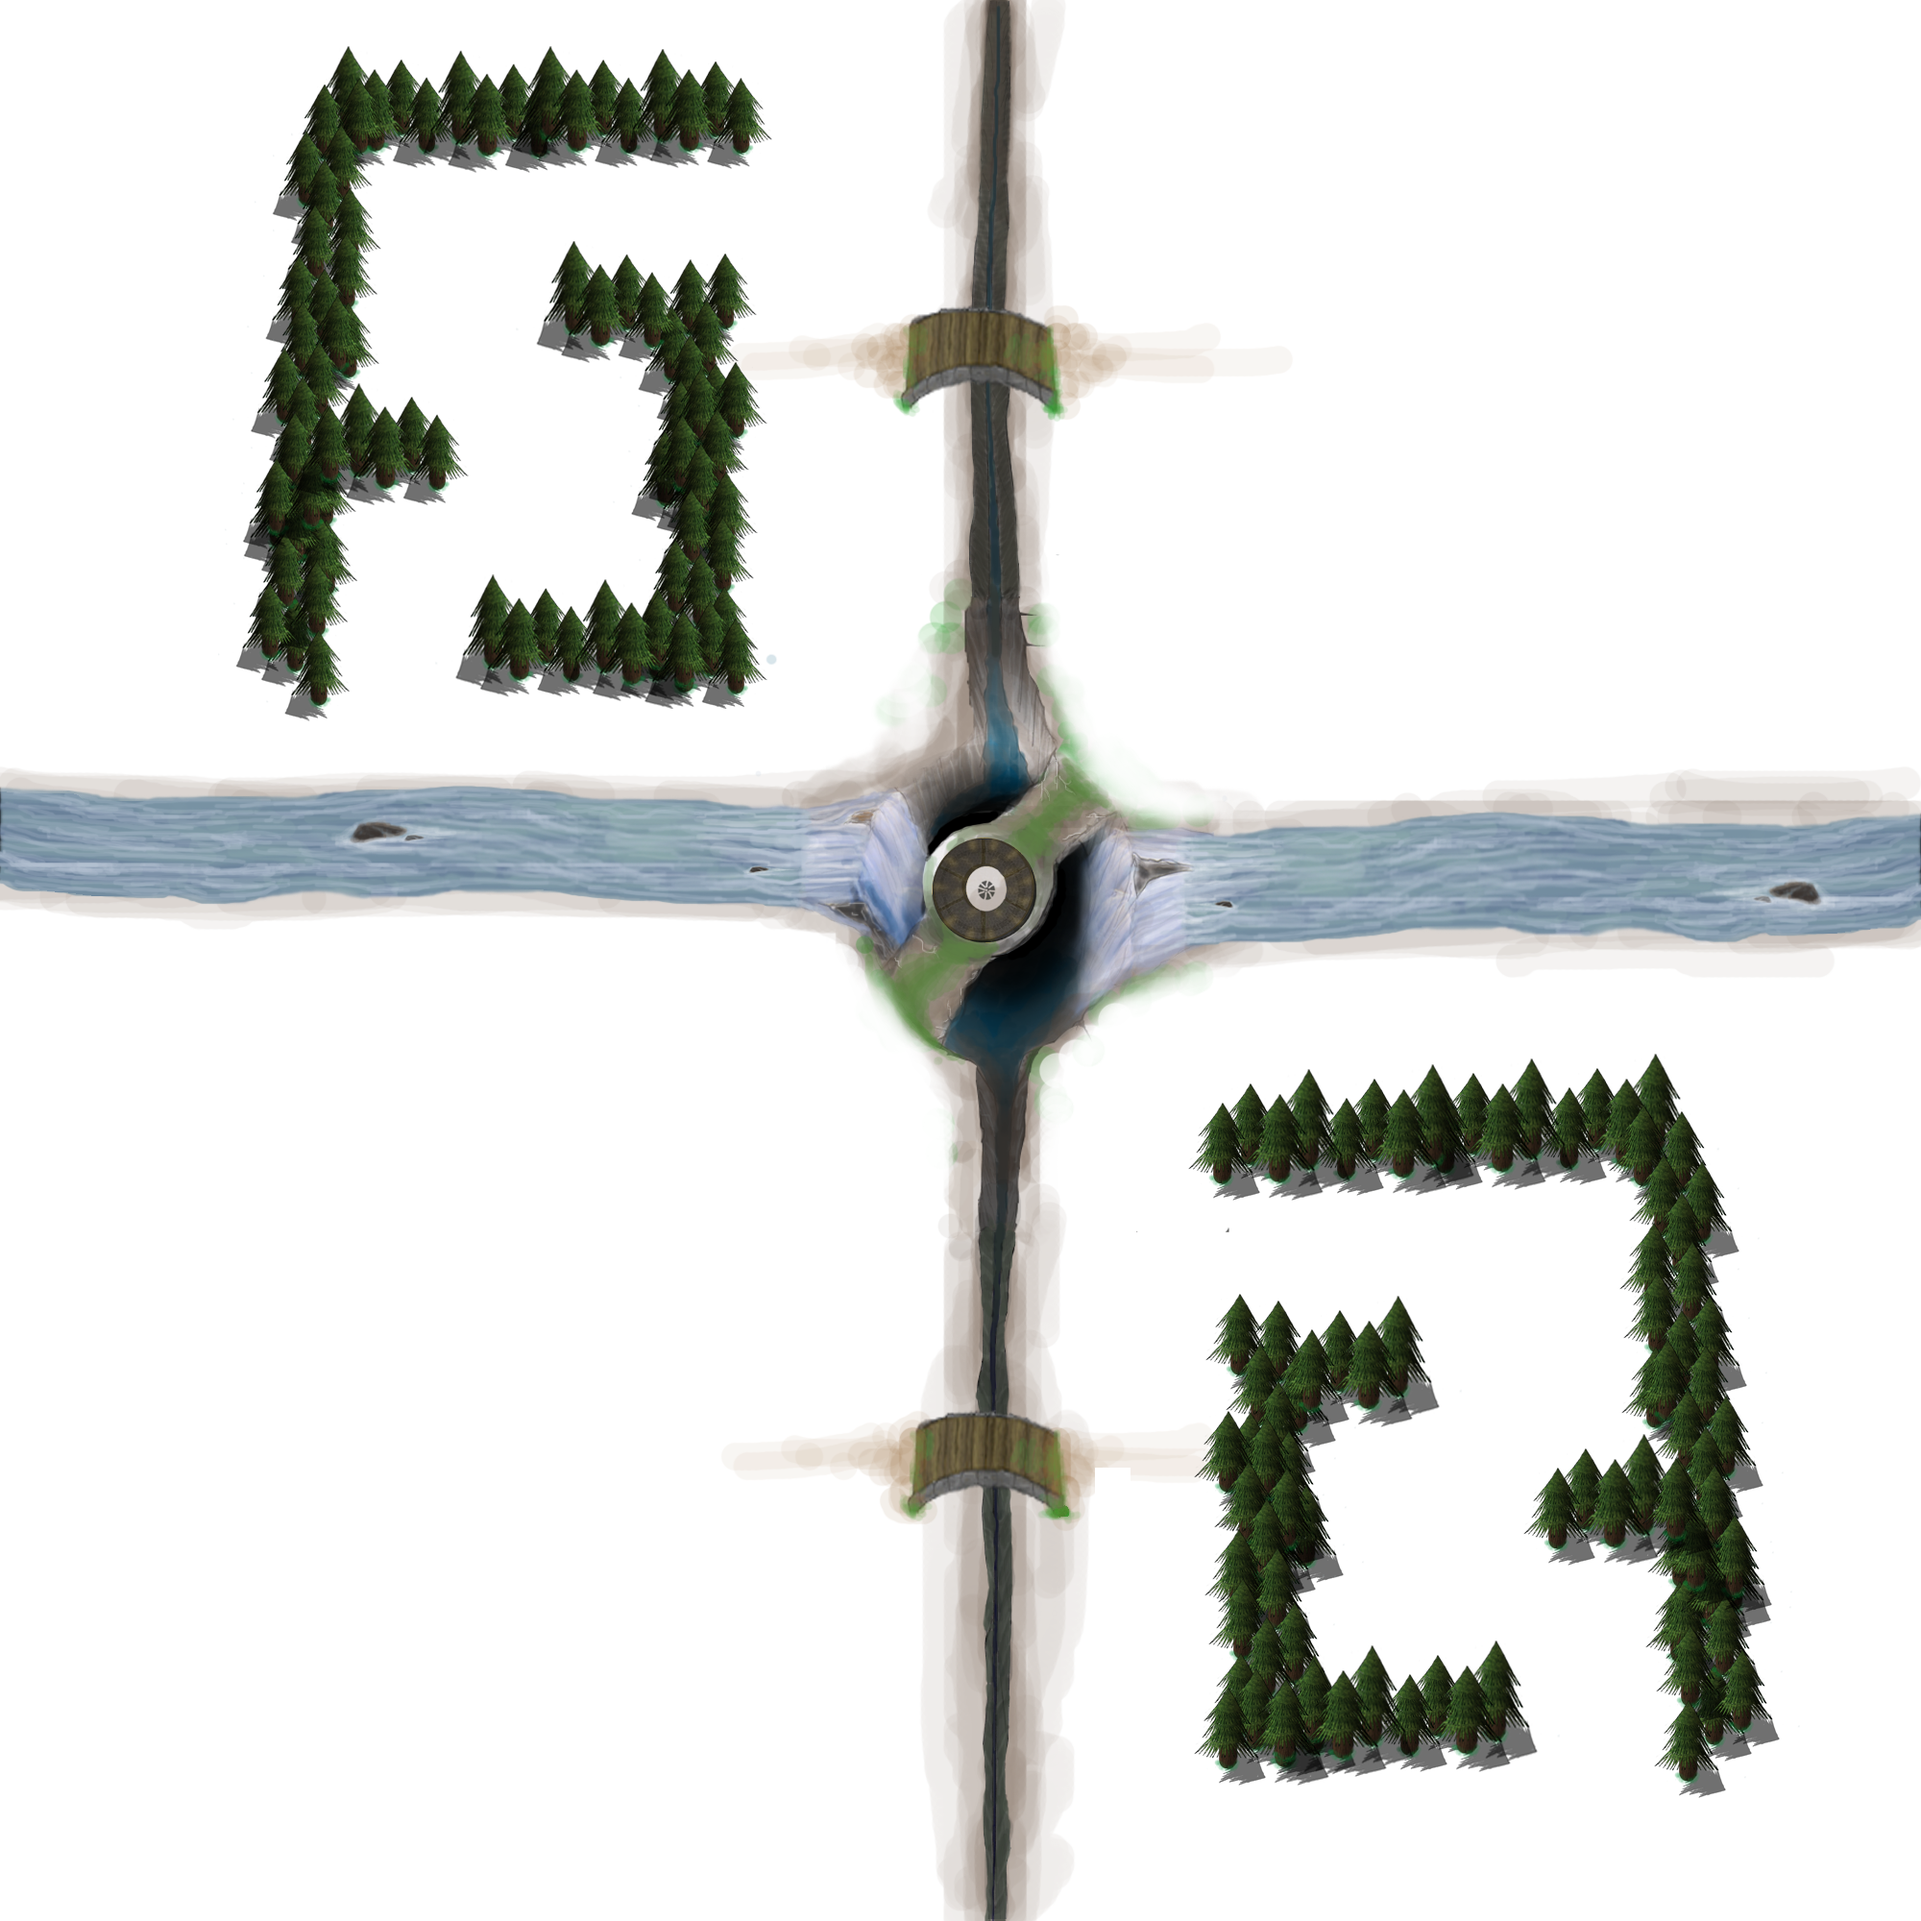
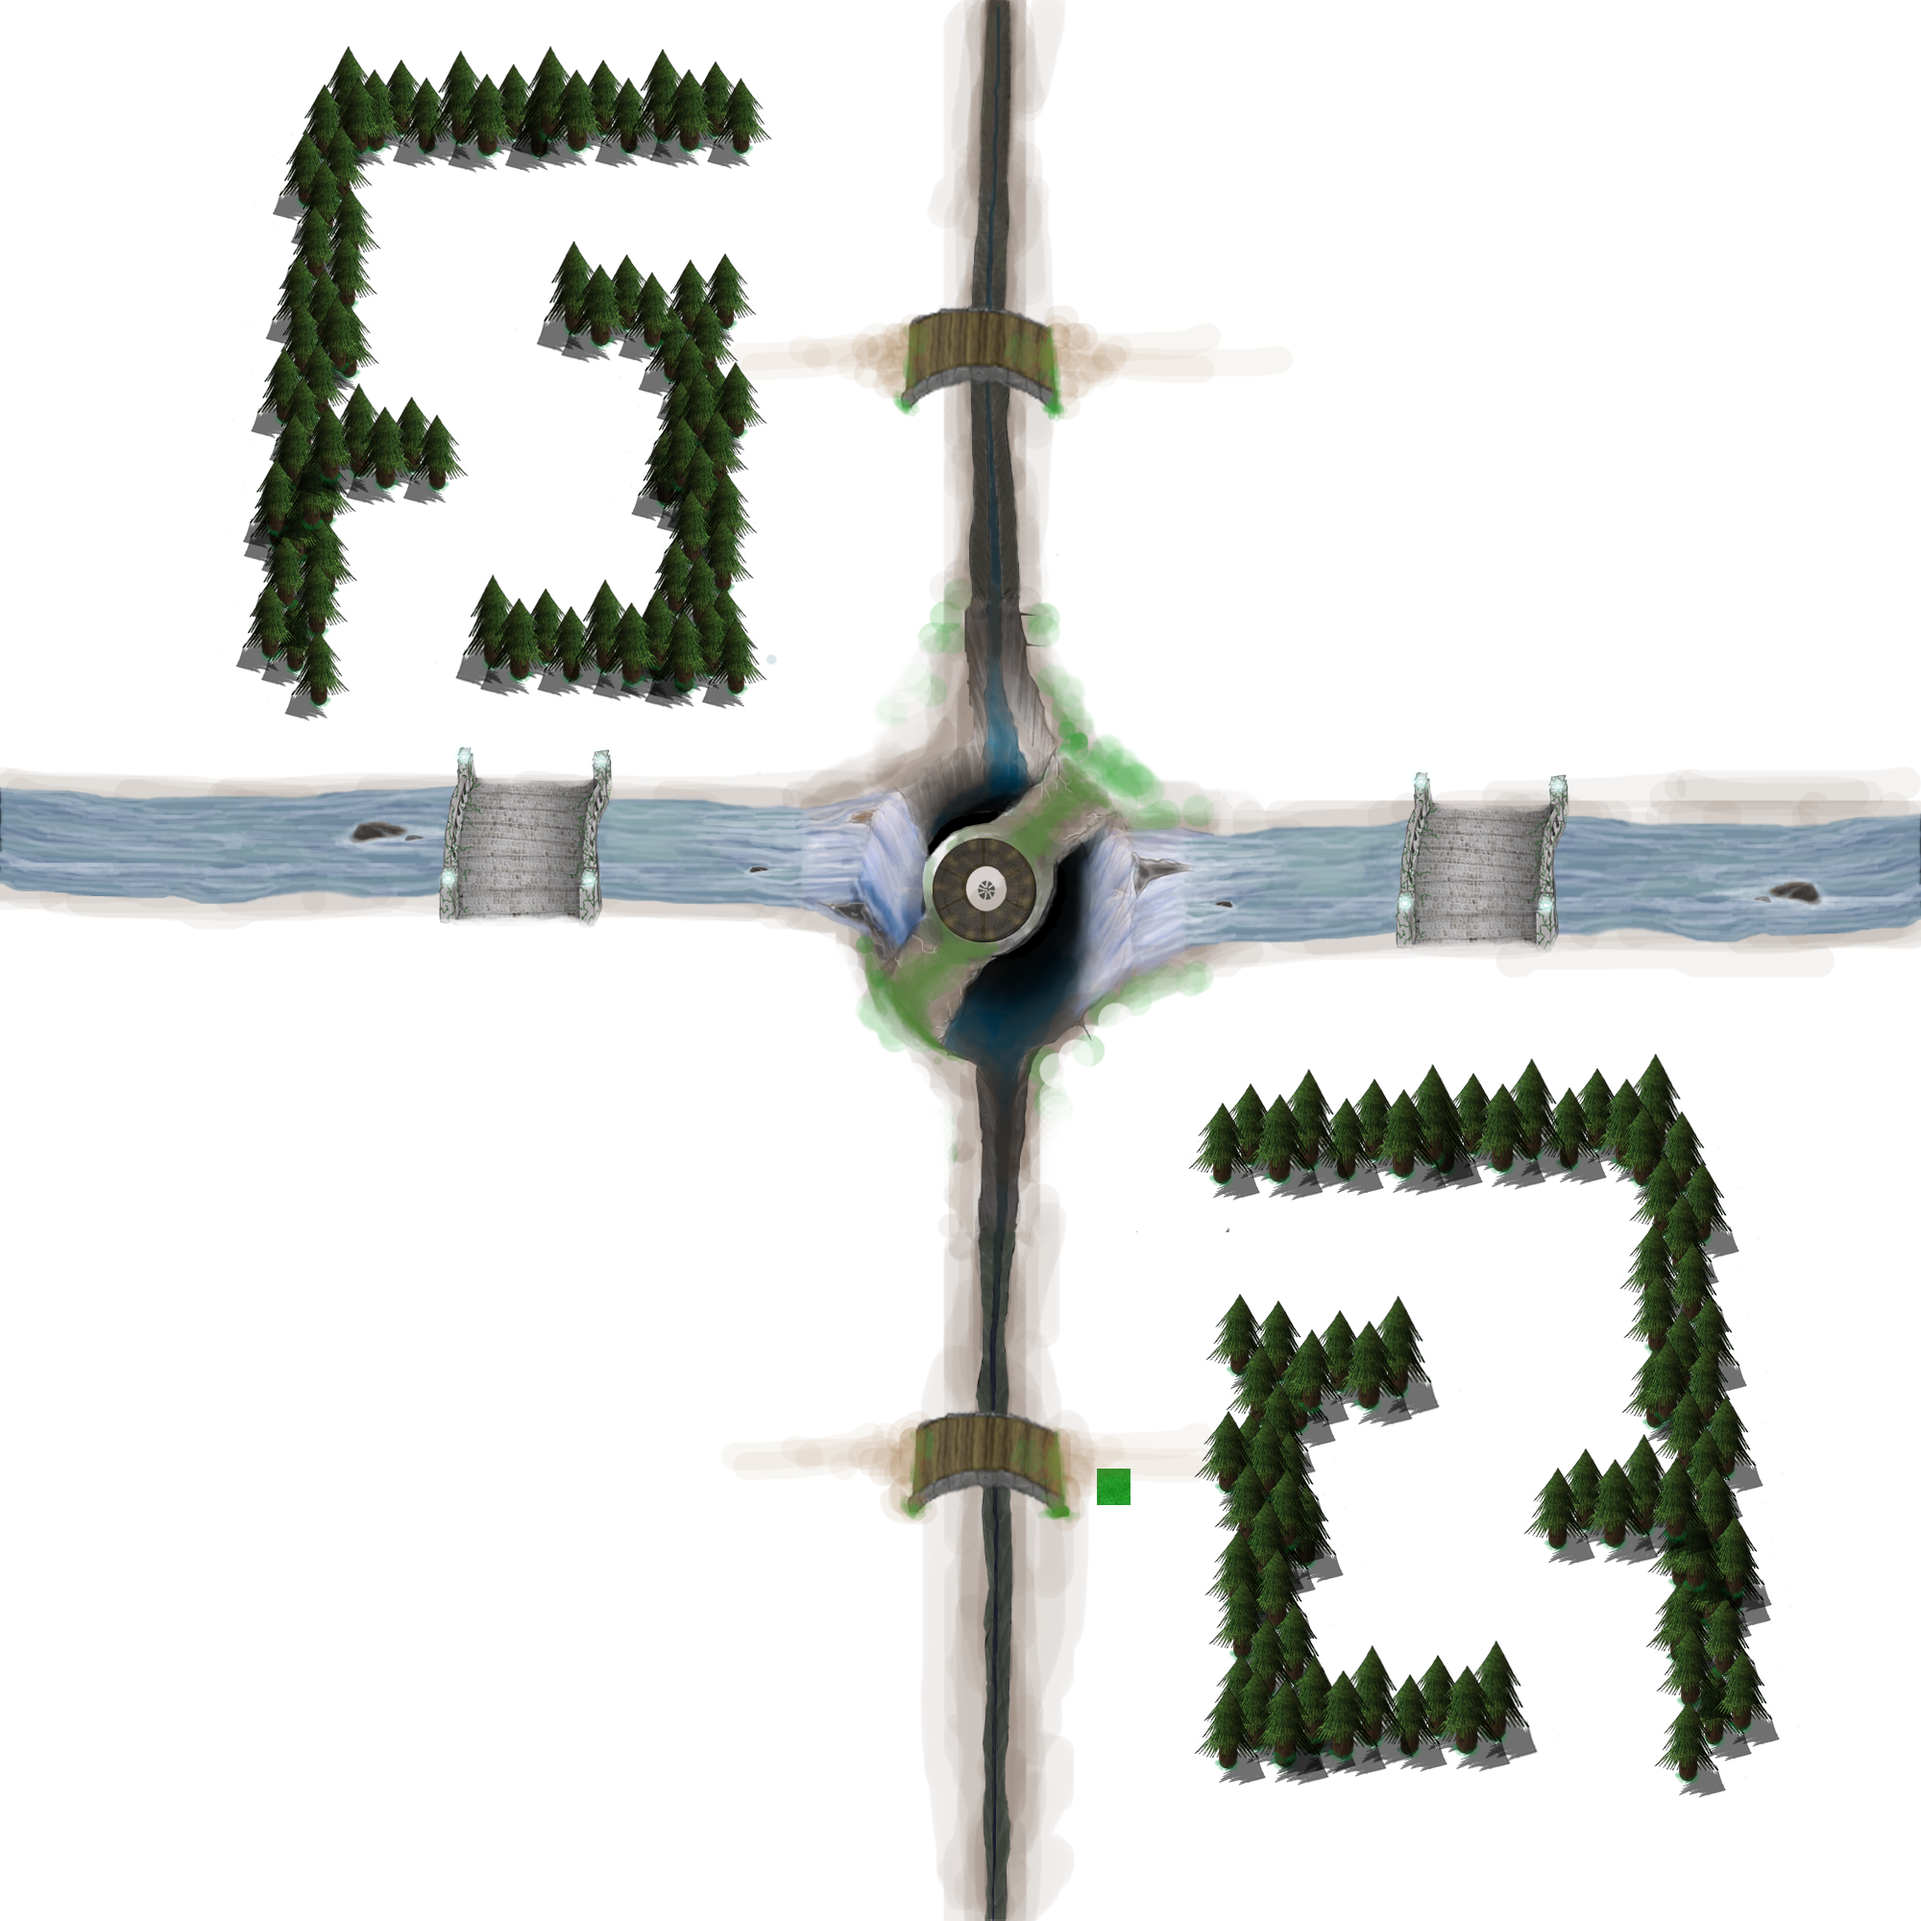
tout les ponts sont mit. leurs images avec.

diff --git a/src/sim/tricycle/mapping/nosCarte/CrossRiver.java b/src/sim/tricycle/mapping/nosCarte/CrossRiver.java
@@ -30,11 +30,11 @@ public class CrossRiver extends AbstractCarteGlobal {
             {"V", "V", "V", "V", "V", "V", "V", "V", "V", "V", "V", "V", "V", "V", "V", "V", "V", "V", "V", "X", "X", "X", "V", "V", "V", "V", "V", "V", "V", "V", "V", "V", "V", "V", "V", "V", "V", "V", "V", "V"},
             {"V", "V", "V", "V", "V", "V", "V", "V", "V", "V", "V", "V", "V", "V", "V", "V", "V", "V", "V", "X", "X", "X", "V", "V", "V", "V", "V", "V", "V", "V", "V", "V", "V", "V", "V", "V", "V", "V", "V", "V"},
             {"V", "V", "V", "V", "V", "V", "V", "V", "V", "V", "V", "V", "V", "V", "V", "V", "V", "V", "V", "X", "X", "X", "V", "V", "V", "V", "V", "V", "V", "V", "V", "V", "V", "V", "V", "V", "V", "V", "V", "V"},
-            {"V", "V", "V", "V", "V", "V", "V", "V", "V", "V", "V", "V", "V", "V", "V", "V", "V", "V", "X", "X", "X", "X", "CR6", "V", "V", "V", "V", "V", "V", "V", "V", "V", "V", "V", "V", "V", "V", "V", "V", "V"},
-            {"X", "X", "X", "X", "X", "X", "X", "X", "X", "X", "X", "X", "X", "X", "X", "X", "X", "X", "X", "X", "X", "CR4", "CR5", "CR7", "V", "V", "V", "V", "V", "X", "X", "X", "X", "X", "V", "V", "V", "V", "V", "X"},
-            {"X", "X", "X", "X", "X", "X", "X", "X", "X", "X", "X", "X", "X", "X", "X", "X", "X", "X", "X", "X", "CRA2", "CRA3", "X", "X", "X", "X", "X", "X", "X", "X", "X", "X", "X", "X", "X", "X", "X", "X", "X", "X"},
-            {"X", "X", "X", "X", "X", "X", "X", "X", "X", "X", "X", "X", "X", "X", "X", "X", "X", "X", "X", "CRA4", "@", "CRA6", "X", "X", "X", "X", "X", "X", "X", "X", "X", "X", "X", "X", "X", "X", "X", "X", "X", "X"},
-            {"V", "V", "V", "V", "V", "V", "V", "V", "V", "V", "V", "V", "V", "V", "V", "V", "V", "X", "X", "CRA7", "CRA8", "X", "X", "X", "X", "X", "X", "X", "X", "X", "X", "X", "X", "X", "X", "X", "X", "X", "X", "X"},
+            {"V", "V", "V", "V", "V", "V", "V", "V", "V", "CPE5",    "V",    "V", "CPE6", "V", "V", "V", "V", "V", "X", "X", "X", "X",   "CR6",   "V", "V", "V", "V", "V", "V", "V", "V", "V", "V", "V", "V", "V", "V", "V", "V", "V"},
+            {"X", "X", "X", "X", "X", "X", "X", "X", "X", "X",    "CPE9", "CPE10",   "X", "X", "X", "X", "X", "X", "X", "X", "X", "CR4", "CR5", "CR7", "V", "V", "V", "V", "V", "X", "CPO1", "CPO2", "X", "X", "V", "V", "V", "V", "V", "X"},
+            {"X", "X", "X", "X", "X", "X", "X", "X", "X", "X",    "CPE8", "CPE11",   "X", "X", "X", "X", "X", "X", "X", "X", "CRA2", "CRA3", "X", "X", "X", "X", "X", "X", "X", "X", "CPO3", "CPO4", "X", "X", "X", "X", "X", "X", "X", "X"},
+            {"X", "X", "X", "X", "X", "X", "X", "X", "X", "X",    "CPE7", "CPE12",   "X", "X", "X", "X", "X", "X", "X", "CRA4", "@", "CRA6", "X", "X", "X", "X", "X", "X", "X", "X", "CPO5", "CPO6", "X", "X", "X", "X", "X", "X", "X", "X"},
+            {"V", "V", "V", "V", "V", "V", "V", "V", "V", "CPE1", "CPE2", "CPE3", "CPE4", "V", "V", "V", "V", "X", "X", "CRA7", "CRA8", "X", "X", "X", "X", "X", "X", "X", "X", "X", "CPO7", "CPO8", "X", "X", "X", "X", "X", "X", "X", "X"},
             {"V", "V", "V", "V", "V", "V", "V", "V", "V", "V", "V", "V", "V", "V", "V", "V", "V", "V", "CR1", "CR3", "X", "X", "X", "X", "X", "V", "V", "V", "V", "V", "V", "V", "V", "V", "V", "V", "V", "V", "V", "V"},
             {"V", "V", "V", "V", "V", "V", "V", "V", "V", "V", "V", "V", "V", "V", "V", "V", "V", "V", "CR2", "X", "X", "X", "X", "V", "V", "V", "V", "V", "V", "V", "V", "V", "V", "V", "V", "V", "V", "V", "V", "V"},
             {"V", "V", "V", "V", "V", "V", "V", "V", "V", "V", "V", "V", "V", "V", "V", "V", "V", "V", "V", "X", "X", "X", "V", "V", "V", "V", "V", "V", "V", "V", "V", "V", "V", "V", "V", "V", "V", "V", "V", "V"},

diff --git a/src/sim/tricycle/ihm/FrameGame1.java b/src/sim/tricycle/ihm/FrameGame1.java
@@ -333,7 +333,7 @@ public class FrameGame1 extends javax.swing.JFrame implements Observer {
         panActionAvailableGlobale.setLayout(panActionAvailableGlobaleLayout);
         panActionAvailableGlobaleLayout.setHorizontalGroup(
             panActionAvailableGlobaleLayout.createParallelGroup(javax.swing.GroupLayout.Alignment.LEADING)
-            .addGap(0, 205, Short.MAX_VALUE)
+            .addGap(0, 208, Short.MAX_VALUE)
         );
         panActionAvailableGlobaleLayout.setVerticalGroup(
             panActionAvailableGlobaleLayout.createParallelGroup(javax.swing.GroupLayout.Alignment.LEADING)
@@ -346,7 +346,7 @@ public class FrameGame1 extends javax.swing.JFrame implements Observer {
         panActionAvailableTeam1.setLayout(panActionAvailableTeam1Layout);
         panActionAvailableTeam1Layout.setHorizontalGroup(
             panActionAvailableTeam1Layout.createParallelGroup(javax.swing.GroupLayout.Alignment.LEADING)
-            .addGap(0, 205, Short.MAX_VALUE)
+            .addGap(0, 208, Short.MAX_VALUE)
         );
         panActionAvailableTeam1Layout.setVerticalGroup(
             panActionAvailableTeam1Layout.createParallelGroup(javax.swing.GroupLayout.Alignment.LEADING)
@@ -359,7 +359,7 @@ public class FrameGame1 extends javax.swing.JFrame implements Observer {
         panActionAvailableTeam2.setLayout(panActionAvailableTeam2Layout);
         panActionAvailableTeam2Layout.setHorizontalGroup(
             panActionAvailableTeam2Layout.createParallelGroup(javax.swing.GroupLayout.Alignment.LEADING)
-            .addGap(0, 205, Short.MAX_VALUE)
+            .addGap(0, 208, Short.MAX_VALUE)
         );
         panActionAvailableTeam2Layout.setVerticalGroup(
             panActionAvailableTeam2Layout.createParallelGroup(javax.swing.GroupLayout.Alignment.LEADING)
@@ -379,8 +379,8 @@ public class FrameGame1 extends javax.swing.JFrame implements Observer {
 
         panZoom.setBorder(javax.swing.BorderFactory.createLineBorder(new java.awt.Color(0, 0, 0)));
 
-        sldZoom.setMaximum(220);
-        sldZoom.setMinimum(30);
+        sldZoom.setMaximum(200);
+        sldZoom.setMinimum(40);
         sldZoom.setValue(100);
         sldZoom.addChangeListener(new javax.swing.event.ChangeListener() {
             public void stateChanged(javax.swing.event.ChangeEvent evt) {

diff --git a/src/sim/tricycle/ihm/ViewCarte.java b/src/sim/tricycle/ihm/ViewCarte.java
@@ -137,7 +137,7 @@ public class ViewCarte extends javax.swing.JPanel {
                 //Si case à motif 
                 try {
                     // on recupere l'image corespondante à l'id.
-                    g.drawImage(imgVide, x, y, width, width, this); System.out.println(c.getId());
+                    g.drawImage(imgVide, x, y, width, width, this);
                     img = ImageIO.read(new File("./src/sim/tricycle/ihm/images/cases/" + c.getId() + ".png"));
                 } catch (IOException ex) {
                     Logger.getLogger(ViewCarte.class.getName()).log(Level.SEVERE, null, ex);
@@ -256,8 +256,8 @@ public class ViewCarte extends javax.swing.JPanel {
         px = evt.getLocationOnScreen().x - this.getX();
         py = evt.getLocationOnScreen().y - this.getY();
 
-        System.out.println("click position : " + px + " " + py);
-        System.out.println("POSITION dans le composant : X " + this.getMousePosition().x + " Y " + this.getMousePosition().y);
+     //   System.out.println("click position : " + px + " " + py);
+       // System.out.println("POSITION dans le composant : X " + this.getMousePosition().x + " Y " + this.getMousePosition().y);
     }//GEN-LAST:event_formMousePressed
     // Variables declaration - do not modify//GEN-BEGIN:variables
     // End of variables declaration//GEN-END:variables

diff --git a/src/sim/tricycle/SimTricycle.java b/src/sim/tricycle/SimTricycle.java
@@ -32,10 +32,10 @@ public class SimTricycle {
      */
     public static void main(String[] args) {
 
-        MapTest cr = new MapTest();
+ //       MapTest cr = new MapTest();
+   //     Carte c = cr.getCarte();
+        CrossRiver cr = new CrossRiver();
         Carte c = cr.getCarte();
-//        CrossRiver cr = new CrossRiver();
-//        Carte c = cr.getCarte();
         sim.tricycle.team.Team t = new sim.tricycle.team.Team("Winneurs", c, new Point(0, 0), new ArrayList<Ressource>());
         sim.tricycle.robot.Robot bot;
 
@@ -48,10 +48,10 @@ public class SimTricycle {
 
 
         CollecterUnePiece cup = new CollecterUnePiece();
-        c.pop(new Piece(c.getCase(0, 1)), c.getCase(0, 1));
-        Piece p = (Piece) c.getCase(0, 1).myItem();
-        //   cup.setPiece(p);
-        //    bot.getActions().add(cup);
+        c.pop(new Piece(c.getCase(36, 36)), c.getCase(36, 36));
+        Piece p = (Piece) c.getCase(36, 36).myItem();
+           cup.setPiece(p);
+            bot.getActions().add(cup);
         cr.afficherCarte();
 
         FrameGame1 fg = new FrameGame1(cr);
